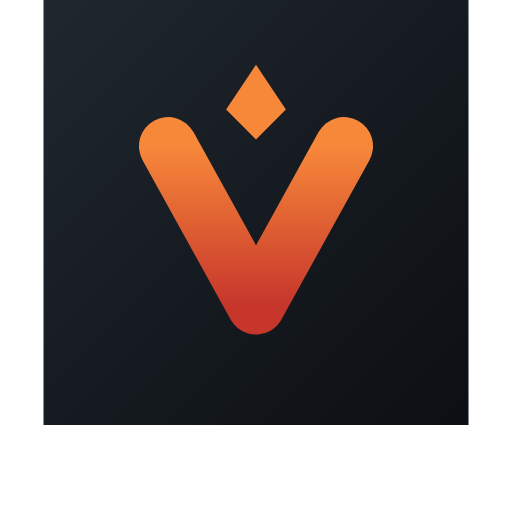
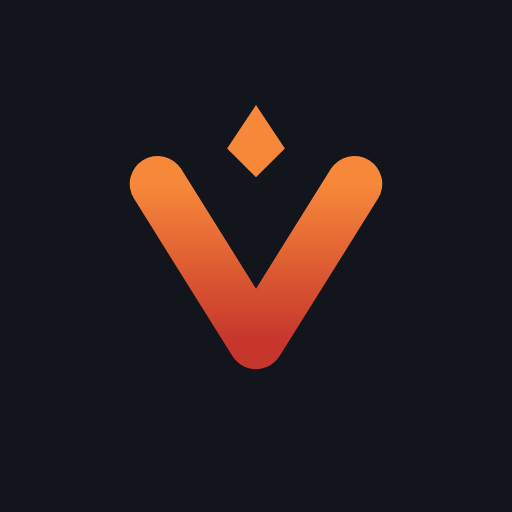
PWA : icône plein cadre (corrige la marge blanche iOS)
L'apple-touch-icon avait des coins arrondis et de la transparence : iOS le
composait sur du blanc, d'où la marge. Régénération des icônes en plein
cadre, fond forge bord à bord, sans transparence ni coins arrondis
(apple-touch-icon 180, icônes PWA 192/512, zone de sécurité maskable).
Bump du cache du service worker (v2) pour rafraîchir les assets.

Claude-Session: https://claude.ai/code/session_01JK2wfoGybQ2RwhMvFjunzS

diff --git a/public/sw.js b/public/sw.js
@@ -9,7 +9,7 @@
  *    hash, immuables) et l'app shell statique (icônes, manifeste, page offline) ;
  *  - en cas de navigation hors-ligne, on sert une page offline de repli.
  */
-const VERSION = 'v1';
+const VERSION = 'v2';
 const SHELL_CACHE = `vulkain-shell-${VERSION}`;
 const ASSET_CACHE = `vulkain-assets-${VERSION}`;
 const OFFLINE_URL = '/offline.html';
